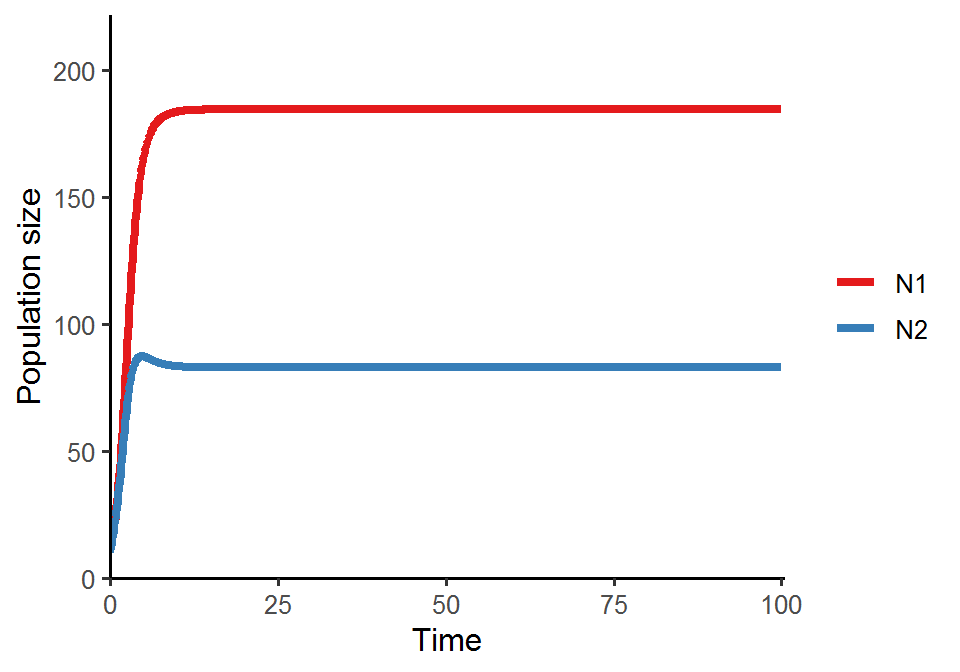
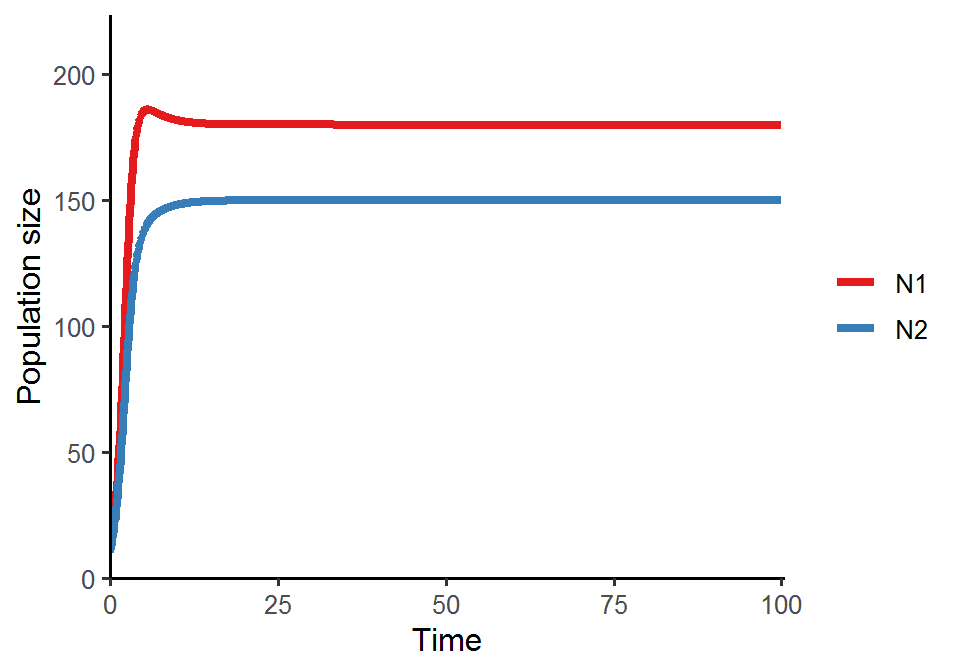
update

Changed region(s): [[0.0625, 0.1562, 0.8125, 0.625], [0.0625, 0.625, 0.125, 0.6875], [0.0312, 0.0938, 0.125, 0.125]]

diff --git a/docs/week-7.html b/docs/week-7.html
@@ -243,7 +243,7 @@ code span.wa { color: #60a0b0; font-weight: bold; font-style: italic; } /* Warni
 <div class="sourceCode" id="cb1"><pre class="sourceCode r"><code class="sourceCode r"><span id="cb1-1"><a href="week-7.html#cb1-1" aria-hidden="true" tabindex="-1"></a><span class="fu">library</span>(tidyverse)</span>
 <span id="cb1-2"><a href="week-7.html#cb1-2" aria-hidden="true" tabindex="-1"></a><span class="fu">library</span>(deSolve)</span>
 <span id="cb1-3"><a href="week-7.html#cb1-3" aria-hidden="true" tabindex="-1"></a></span>
-<span id="cb1-4"><a href="week-7.html#cb1-4" aria-hidden="true" tabindex="-1"></a>LV_pop_dynamics <span class="ot">&lt;-</span> <span class="cf">function</span>(<span class="at">r1 =</span> <span class="fl">1.2</span>, <span class="at">r2 =</span> <span class="fl">1.2</span>, <span class="at">a11 =</span> <span class="dv">1</span><span class="sc">/</span><span class="dv">200</span>, <span class="at">a21 =</span> <span class="dv">1</span><span class="sc">/</span><span class="dv">500</span>, <span class="at">a22 =</span> <span class="dv">1</span><span class="sc">/</span><span class="dv">100</span>, <span class="at">a12 =</span> <span class="dv">1</span><span class="sc">/</span><span class="dv">300</span>) {</span>
+<span id="cb1-4"><a href="week-7.html#cb1-4" aria-hidden="true" tabindex="-1"></a>LV_pop_dynamics <span class="ot">&lt;-</span> <span class="cf">function</span>(<span class="at">r1 =</span> <span class="fl">1.4</span>, <span class="at">r2 =</span> <span class="fl">1.2</span>, <span class="at">a11 =</span> <span class="dv">1</span><span class="sc">/</span><span class="dv">200</span>, <span class="at">a21 =</span> <span class="dv">1</span><span class="sc">/</span><span class="dv">400</span>, <span class="at">a22 =</span> <span class="dv">1</span><span class="sc">/</span><span class="dv">200</span>, <span class="at">a12 =</span> <span class="dv">1</span><span class="sc">/</span><span class="dv">300</span>) {</span>
 <span id="cb1-5"><a href="week-7.html#cb1-5" aria-hidden="true" tabindex="-1"></a>    </span>
 <span id="cb1-6"><a href="week-7.html#cb1-6" aria-hidden="true" tabindex="-1"></a><span class="do">### Model specification</span></span>
 <span id="cb1-7"><a href="week-7.html#cb1-7" aria-hidden="true" tabindex="-1"></a>LV_competition_model <span class="ot">&lt;-</span> <span class="cf">function</span>(times, state, parms) {</span>
@@ -275,8 +275,8 @@ code span.wa { color: #60a0b0; font-weight: bold; font-style: italic; } /* Warni
 <span id="cb1-33"><a href="week-7.html#cb1-33" aria-hidden="true" tabindex="-1"></a>  <span class="fu">scale_color_brewer</span>(<span class="at">name =</span> <span class="cn">NULL</span>, <span class="at">palette =</span> <span class="st">&quot;Set1&quot;</span>)</span>
 <span id="cb1-34"><a href="week-7.html#cb1-34" aria-hidden="true" tabindex="-1"></a>}</span>
 <span id="cb1-35"><a href="week-7.html#cb1-35" aria-hidden="true" tabindex="-1"></a></span>
-<span id="cb1-36"><a href="week-7.html#cb1-36" aria-hidden="true" tabindex="-1"></a><span class="do">### Different parameter scenarios</span></span>
-<span id="cb1-37"><a href="week-7.html#cb1-37" aria-hidden="true" tabindex="-1"></a><span class="fu">LV_pop_dynamics</span>(<span class="at">r1 =</span> <span class="fl">1.2</span>, <span class="at">r2 =</span> <span class="fl">1.2</span>, <span class="at">a11 =</span> <span class="dv">1</span><span class="sc">/</span><span class="dv">200</span>, <span class="at">a21 =</span> <span class="dv">1</span><span class="sc">/</span><span class="dv">500</span>, <span class="at">a22 =</span> <span class="dv">1</span><span class="sc">/</span><span class="dv">100</span>, <span class="at">a12 =</span> <span class="dv">1</span><span class="sc">/</span><span class="dv">300</span>)  <span class="co"># stable coexistence</span></span></code></pre></div>
+<span id="cb1-36"><a href="week-7.html#cb1-36" aria-hidden="true" tabindex="-1"></a><span class="do">### Different parameter settings</span></span>
+<span id="cb1-37"><a href="week-7.html#cb1-37" aria-hidden="true" tabindex="-1"></a><span class="fu">LV_pop_dynamics</span>(<span class="at">r1 =</span> <span class="fl">1.4</span>, <span class="at">r2 =</span> <span class="fl">1.2</span>, <span class="at">a11 =</span> <span class="dv">1</span><span class="sc">/</span><span class="dv">200</span>, <span class="at">a21 =</span> <span class="dv">1</span><span class="sc">/</span><span class="dv">400</span>, <span class="at">a22 =</span> <span class="dv">1</span><span class="sc">/</span><span class="dv">200</span>, <span class="at">a12 =</span> <span class="dv">1</span><span class="sc">/</span><span class="dv">300</span>)  <span class="co"># stable coexistence</span></span></code></pre></div>
 <p><img src="07_Week_7_files/figure-html/unnamed-chunk-1-1.png" width="70%" style="display: block; margin: auto;" /></p>
 <div class="sourceCode" id="cb2"><pre class="sourceCode r"><code class="sourceCode r"><span id="cb2-1"><a href="week-7.html#cb2-1" aria-hidden="true" tabindex="-1"></a><span class="fu">LV_pop_dynamics</span>(<span class="at">r1 =</span> <span class="fl">1.2</span>, <span class="at">r2 =</span> <span class="fl">1.2</span>, <span class="at">a11 =</span> <span class="dv">1</span><span class="sc">/</span><span class="dv">200</span>, <span class="at">a21 =</span> <span class="dv">1</span><span class="sc">/</span><span class="dv">100</span>, <span class="at">a22 =</span> <span class="dv">1</span><span class="sc">/</span><span class="dv">100</span>, <span class="at">a12 =</span> <span class="dv">1</span><span class="sc">/</span><span class="dv">300</span>)  <span class="co"># N1 wins</span></span></code></pre></div>
 <p><img src="07_Week_7_files/figure-html/unnamed-chunk-1-2.png" width="70%" style="display: block; margin: auto;" /></p>
@@ -284,7 +284,55 @@ code span.wa { color: #60a0b0; font-weight: bold; font-style: italic; } /* Warni
 <p><img src="07_Week_7_files/figure-html/unnamed-chunk-1-3.png" width="70%" style="display: block; margin: auto;" />
 <br></p>
 <p>Here is the phase plane of the system in which the two species exhibit stable coexistence:</p>
-<p><br></p>
+<div class="sourceCode" id="cb4"><pre class="sourceCode r"><code class="sourceCode r"><span id="cb4-1"><a href="week-7.html#cb4-1" aria-hidden="true" tabindex="-1"></a><span class="do">### Parameters</span></span>
+<span id="cb4-2"><a href="week-7.html#cb4-2" aria-hidden="true" tabindex="-1"></a>r1 <span class="ot">&lt;-</span> <span class="fl">1.4</span></span>
+<span id="cb4-3"><a href="week-7.html#cb4-3" aria-hidden="true" tabindex="-1"></a>r2 <span class="ot">&lt;-</span> <span class="fl">1.2</span></span>
+<span id="cb4-4"><a href="week-7.html#cb4-4" aria-hidden="true" tabindex="-1"></a>a11 <span class="ot">&lt;-</span> <span class="dv">1</span><span class="sc">/</span><span class="dv">200</span> </span>
+<span id="cb4-5"><a href="week-7.html#cb4-5" aria-hidden="true" tabindex="-1"></a>a21 <span class="ot">&lt;-</span> <span class="dv">1</span><span class="sc">/</span><span class="dv">400</span></span>
+<span id="cb4-6"><a href="week-7.html#cb4-6" aria-hidden="true" tabindex="-1"></a>a22 <span class="ot">&lt;-</span> <span class="dv">1</span><span class="sc">/</span><span class="dv">200</span> </span>
+<span id="cb4-7"><a href="week-7.html#cb4-7" aria-hidden="true" tabindex="-1"></a>a12 <span class="ot">&lt;-</span> <span class="dv">1</span><span class="sc">/</span><span class="dv">300</span></span>
+<span id="cb4-8"><a href="week-7.html#cb4-8" aria-hidden="true" tabindex="-1"></a></span>
+<span id="cb4-9"><a href="week-7.html#cb4-9" aria-hidden="true" tabindex="-1"></a><span class="do">### Vectors</span></span>
+<span id="cb4-10"><a href="week-7.html#cb4-10" aria-hidden="true" tabindex="-1"></a>LV_competition_model <span class="ot">&lt;-</span> <span class="cf">function</span>(times, state, parms) {</span>
+<span id="cb4-11"><a href="week-7.html#cb4-11" aria-hidden="true" tabindex="-1"></a>  <span class="fu">with</span>(<span class="fu">as.list</span>(<span class="fu">c</span>(state, parms)), {</span>
+<span id="cb4-12"><a href="week-7.html#cb4-12" aria-hidden="true" tabindex="-1"></a>    dN1_dt <span class="ot">=</span> N1<span class="sc">*</span>(r1<span class="sc">-</span>a11<span class="sc">*</span>N1<span class="sc">-</span>a12<span class="sc">*</span>N2)  </span>
+<span id="cb4-13"><a href="week-7.html#cb4-13" aria-hidden="true" tabindex="-1"></a>    dN2_dt <span class="ot">=</span> N2<span class="sc">*</span>(r2<span class="sc">-</span>a22<span class="sc">*</span>N2<span class="sc">-</span>a21<span class="sc">*</span>N1)</span>
+<span id="cb4-14"><a href="week-7.html#cb4-14" aria-hidden="true" tabindex="-1"></a>    <span class="fu">return</span>(<span class="fu">list</span>(<span class="fu">c</span>(dN1_dt, dN2_dt)))</span>
+<span id="cb4-15"><a href="week-7.html#cb4-15" aria-hidden="true" tabindex="-1"></a>  })</span>
+<span id="cb4-16"><a href="week-7.html#cb4-16" aria-hidden="true" tabindex="-1"></a>}</span>
+<span id="cb4-17"><a href="week-7.html#cb4-17" aria-hidden="true" tabindex="-1"></a></span>
+<span id="cb4-18"><a href="week-7.html#cb4-18" aria-hidden="true" tabindex="-1"></a>times <span class="ot">&lt;-</span> <span class="fu">seq</span>(<span class="dv">0</span>, <span class="fl">0.1</span>, <span class="at">by =</span> <span class="fl">0.1</span>)</span>
+<span id="cb4-19"><a href="week-7.html#cb4-19" aria-hidden="true" tabindex="-1"></a>parms <span class="ot">&lt;-</span> <span class="fu">c</span>(<span class="at">r1 =</span> r1, <span class="at">r2 =</span> r2, <span class="at">a11 =</span> a11, <span class="at">a21 =</span> a21, <span class="at">a22 =</span> a22, <span class="at">a12 =</span> a12)</span>
+<span id="cb4-20"><a href="week-7.html#cb4-20" aria-hidden="true" tabindex="-1"></a></span>
+<span id="cb4-21"><a href="week-7.html#cb4-21" aria-hidden="true" tabindex="-1"></a>vector_grid <span class="ot">&lt;-</span> <span class="fu">expand.grid</span>(<span class="fu">seq</span>(<span class="dv">5</span>, <span class="dv">505</span>, <span class="dv">20</span>), <span class="fu">seq</span>(<span class="dv">5</span>, <span class="dv">505</span>, <span class="dv">20</span>))</span>
+<span id="cb4-22"><a href="week-7.html#cb4-22" aria-hidden="true" tabindex="-1"></a>vector_data <span class="ot">&lt;-</span> vector_grid <span class="sc">%&gt;%</span> </span>
+<span id="cb4-23"><a href="week-7.html#cb4-23" aria-hidden="true" tabindex="-1"></a>  <span class="fu">pmap</span>(., <span class="cf">function</span>(Var1, Var2){</span>
+<span id="cb4-24"><a href="week-7.html#cb4-24" aria-hidden="true" tabindex="-1"></a>    state <span class="ot">&lt;-</span> <span class="fu">c</span>(<span class="at">N1 =</span> Var1, <span class="at">N2 =</span> Var2)</span>
+<span id="cb4-25"><a href="week-7.html#cb4-25" aria-hidden="true" tabindex="-1"></a>    pop_size <span class="ot">&lt;-</span> <span class="fu">ode</span>(<span class="at">func =</span> LV_competition_model, <span class="at">times =</span> times, <span class="at">y =</span> state, <span class="at">parms =</span> parms)</span>
+<span id="cb4-26"><a href="week-7.html#cb4-26" aria-hidden="true" tabindex="-1"></a>    pop_size[<span class="dv">2</span>, <span class="dv">2</span><span class="sc">:</span><span class="dv">3</span>]</span>
+<span id="cb4-27"><a href="week-7.html#cb4-27" aria-hidden="true" tabindex="-1"></a>  }) <span class="sc">%&gt;%</span> </span>
+<span id="cb4-28"><a href="week-7.html#cb4-28" aria-hidden="true" tabindex="-1"></a>  <span class="fu">bind_rows</span>() <span class="sc">%&gt;%</span></span>
+<span id="cb4-29"><a href="week-7.html#cb4-29" aria-hidden="true" tabindex="-1"></a>  <span class="fu">rename</span>(<span class="at">xend =</span> N1, <span class="at">yend =</span> N2) <span class="sc">%&gt;%</span></span>
+<span id="cb4-30"><a href="week-7.html#cb4-30" aria-hidden="true" tabindex="-1"></a>  <span class="fu">bind_cols</span>(vector_grid) <span class="sc">%&gt;%</span></span>
+<span id="cb4-31"><a href="week-7.html#cb4-31" aria-hidden="true" tabindex="-1"></a>  <span class="fu">rename</span>(<span class="at">x =</span> Var1, <span class="at">y =</span> Var2)</span>
+<span id="cb4-32"><a href="week-7.html#cb4-32" aria-hidden="true" tabindex="-1"></a></span>
+<span id="cb4-33"><a href="week-7.html#cb4-33" aria-hidden="true" tabindex="-1"></a><span class="do">### Phase plane</span></span>
+<span id="cb4-34"><a href="week-7.html#cb4-34" aria-hidden="true" tabindex="-1"></a><span class="fu">ggplot</span>() <span class="sc">+</span> </span>
+<span id="cb4-35"><a href="week-7.html#cb4-35" aria-hidden="true" tabindex="-1"></a>  <span class="fu">geom_abline</span>(<span class="at">slope =</span> <span class="sc">-</span>a11<span class="sc">/</span>a12, <span class="at">intercept =</span> r1<span class="sc">/</span>a12, <span class="at">color =</span> <span class="st">&quot;#E41A1C&quot;</span>, <span class="at">size =</span> <span class="fl">1.5</span>) <span class="sc">+</span> </span>
+<span id="cb4-36"><a href="week-7.html#cb4-36" aria-hidden="true" tabindex="-1"></a>  <span class="fu">geom_abline</span>(<span class="at">slope =</span> <span class="sc">-</span>a21<span class="sc">/</span>a22, <span class="at">intercept =</span> r2<span class="sc">/</span>a22, <span class="at">color =</span> <span class="st">&quot;#377EB8&quot;</span>, <span class="at">size =</span> <span class="fl">1.5</span>) <span class="sc">+</span> </span>
+<span id="cb4-37"><a href="week-7.html#cb4-37" aria-hidden="true" tabindex="-1"></a>  <span class="fu">geom_segment</span>(<span class="at">data =</span> vector_data, </span>
+<span id="cb4-38"><a href="week-7.html#cb4-38" aria-hidden="true" tabindex="-1"></a>               <span class="fu">aes</span>(<span class="at">x =</span> x, <span class="at">y =</span> y, <span class="at">xend =</span> xend, <span class="at">yend =</span> yend), </span>
+<span id="cb4-39"><a href="week-7.html#cb4-39" aria-hidden="true" tabindex="-1"></a>               <span class="at">arrow =</span> <span class="fu">arrow</span>(<span class="at">length =</span> <span class="fu">unit</span>(<span class="fl">0.1</span>, <span class="st">&quot;cm&quot;</span>))) <span class="sc">+</span></span>
+<span id="cb4-40"><a href="week-7.html#cb4-40" aria-hidden="true" tabindex="-1"></a>  <span class="fu">geom_point</span>(<span class="fu">aes</span>(<span class="at">x =</span> (a22<span class="sc">*</span>r1<span class="sc">-</span>a12<span class="sc">*</span>r2)<span class="sc">/</span>(a11<span class="sc">*</span>a22<span class="sc">-</span>a12<span class="sc">*</span>a21), </span>
+<span id="cb4-41"><a href="week-7.html#cb4-41" aria-hidden="true" tabindex="-1"></a>             <span class="at">y =</span> (a21<span class="sc">*</span>r1<span class="sc">-</span>a11<span class="sc">*</span>r2)<span class="sc">/</span>(a12<span class="sc">*</span>a21<span class="sc">-</span>a11<span class="sc">*</span>a22)), </span>
+<span id="cb4-42"><a href="week-7.html#cb4-42" aria-hidden="true" tabindex="-1"></a>             <span class="at">color =</span> <span class="st">&quot;red&quot;</span>, </span>
+<span id="cb4-43"><a href="week-7.html#cb4-43" aria-hidden="true" tabindex="-1"></a>             <span class="at">size =</span> <span class="dv">4</span>) <span class="sc">+</span></span>
+<span id="cb4-44"><a href="week-7.html#cb4-44" aria-hidden="true" tabindex="-1"></a>  <span class="fu">scale_x_continuous</span>(<span class="at">name =</span> <span class="st">&quot;N1&quot;</span>, <span class="at">limits =</span> <span class="fu">c</span>(<span class="dv">0</span>, <span class="dv">505</span>), <span class="at">expand =</span> <span class="fu">c</span>(<span class="dv">0</span>, <span class="dv">0</span>)) <span class="sc">+</span></span>
+<span id="cb4-45"><a href="week-7.html#cb4-45" aria-hidden="true" tabindex="-1"></a>  <span class="fu">scale_y_continuous</span>(<span class="at">name =</span> <span class="st">&quot;N2&quot;</span>, <span class="at">limits =</span> <span class="fu">c</span>(<span class="dv">0</span>, <span class="dv">505</span>), <span class="at">expand =</span> <span class="fu">c</span>(<span class="dv">0</span>, <span class="dv">0</span>)) <span class="sc">+</span></span>
+<span id="cb4-46"><a href="week-7.html#cb4-46" aria-hidden="true" tabindex="-1"></a>  <span class="fu">theme_bw</span>(<span class="at">base_size =</span> <span class="dv">13</span>) <span class="sc">+</span> </span>
+<span id="cb4-47"><a href="week-7.html#cb4-47" aria-hidden="true" tabindex="-1"></a>  <span class="fu">theme</span>(<span class="at">panel.grid =</span> <span class="fu">element_blank</span>()) </span></code></pre></div>
+<p><img src="07_Week_7_files/figure-html/unnamed-chunk-2-1.png" width="70%" style="display: block; margin: auto;" />
+<br></p>
 </div>
 <div id="additional-readings-6" class="section level2 unnumbered">
 <h2>Additional readings</h2>

diff --git a/docs/07_Week_7.md b/docs/07_Week_7.md
@@ -30,7 +30,7 @@ In this lab, we are going to analyze the two-species Lotka-Volterra competition 
 library(tidyverse)
 library(deSolve)
 
-LV_pop_dynamics <- function(r1 = 1.2, r2 = 1.2, a11 = 1/200, a21 = 1/500, a22 = 1/100, a12 = 1/300) {
+LV_pop_dynamics <- function(r1 = 1.4, r2 = 1.2, a11 = 1/200, a21 = 1/400, a22 = 1/200, a12 = 1/300) {
     
 ### Model specification
 LV_competition_model <- function(times, state, parms) {
@@ -62,8 +62,8 @@ pop_size %>%
   scale_color_brewer(name = NULL, palette = "Set1")
 }
 
-### Different parameter scenarios
-LV_pop_dynamics(r1 = 1.2, r2 = 1.2, a11 = 1/200, a21 = 1/500, a22 = 1/100, a12 = 1/300)  # stable coexistence
+### Different parameter settings
+LV_pop_dynamics(r1 = 1.4, r2 = 1.2, a11 = 1/200, a21 = 1/400, a22 = 1/200, a12 = 1/300)  # stable coexistence
 ```
 
 <img src="07_Week_7_files/figure-html/unnamed-chunk-1-1.png" width="70%" style="display: block; margin: auto;" />
@@ -84,7 +84,57 @@ LV_pop_dynamics(r1 = 1.2, r2 = 1.2, a11 = 1/200, a21 = 1/500, a22 = 1/500, a12 =
 Here is the phase plane of the system in which the two species exhibit stable coexistence:
 
 
+```r
+### Parameters
+r1 <- 1.4
+r2 <- 1.2
+a11 <- 1/200 
+a21 <- 1/400
+a22 <- 1/200 
+a12 <- 1/300
 
+### Vectors
+LV_competition_model <- function(times, state, parms) {
+  with(as.list(c(state, parms)), {
+    dN1_dt = N1*(r1-a11*N1-a12*N2)  
+    dN2_dt = N2*(r2-a22*N2-a21*N1)
+    return(list(c(dN1_dt, dN2_dt)))
+  })
+}
+
+times <- seq(0, 0.1, by = 0.1)
+parms <- c(r1 = r1, r2 = r2, a11 = a11, a21 = a21, a22 = a22, a12 = a12)
+
+vector_grid <- expand.grid(seq(5, 505, 20), seq(5, 505, 20))
+vector_data <- vector_grid %>% 
+  pmap(., function(Var1, Var2){
+    state <- c(N1 = Var1, N2 = Var2)
+    pop_size <- ode(func = LV_competition_model, times = times, y = state, parms = parms)
+    pop_size[2, 2:3]
+  }) %>% 
+  bind_rows() %>%
+  rename(xend = N1, yend = N2) %>%
+  bind_cols(vector_grid) %>%
+  rename(x = Var1, y = Var2)
+
+### Phase plane
+ggplot() + 
+  geom_abline(slope = -a11/a12, intercept = r1/a12, color = "#E41A1C", size = 1.5) + 
+  geom_abline(slope = -a21/a22, intercept = r2/a22, color = "#377EB8", size = 1.5) + 
+  geom_segment(data = vector_data, 
+               aes(x = x, y = y, xend = xend, yend = yend), 
+               arrow = arrow(length = unit(0.1, "cm"))) +
+  geom_point(aes(x = (a22*r1-a12*r2)/(a11*a22-a12*a21), 
+             y = (a21*r1-a11*r2)/(a12*a21-a11*a22)), 
+             color = "red", 
+             size = 4) +
+  scale_x_continuous(name = "N1", limits = c(0, 505), expand = c(0, 0)) +
+  scale_y_continuous(name = "N2", limits = c(0, 505), expand = c(0, 0)) +
+  theme_bw(base_size = 13) + 
+  theme(panel.grid = element_blank()) 
+```
+
+<img src="07_Week_7_files/figure-html/unnamed-chunk-2-1.png" width="70%" style="display: block; margin: auto;" />
 <br>
 
 ## Additional readings {-}
